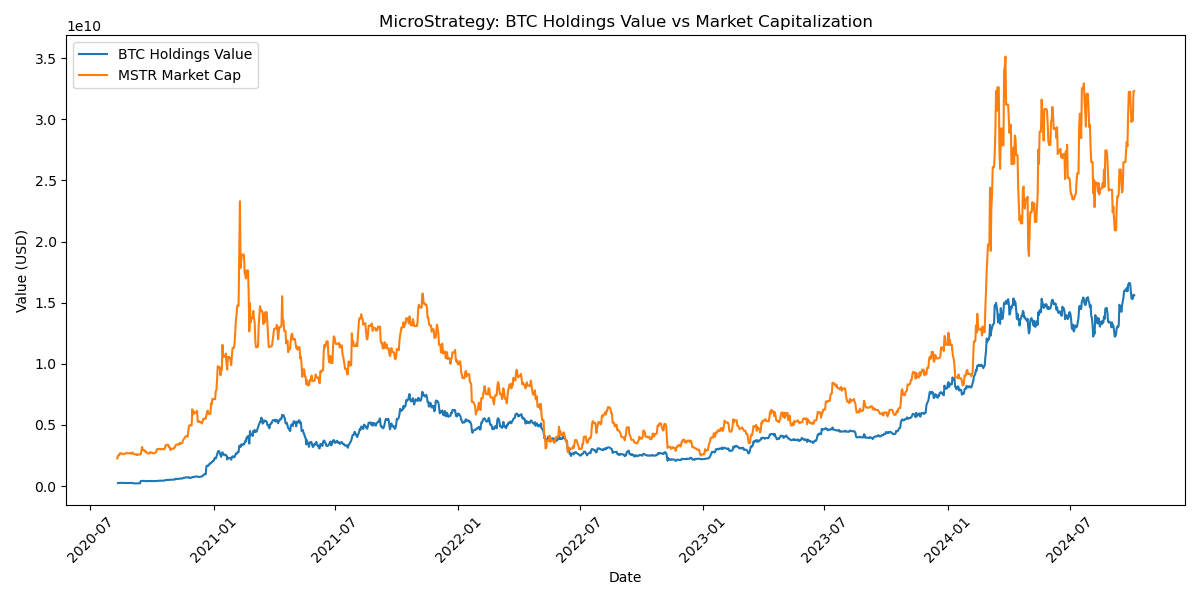
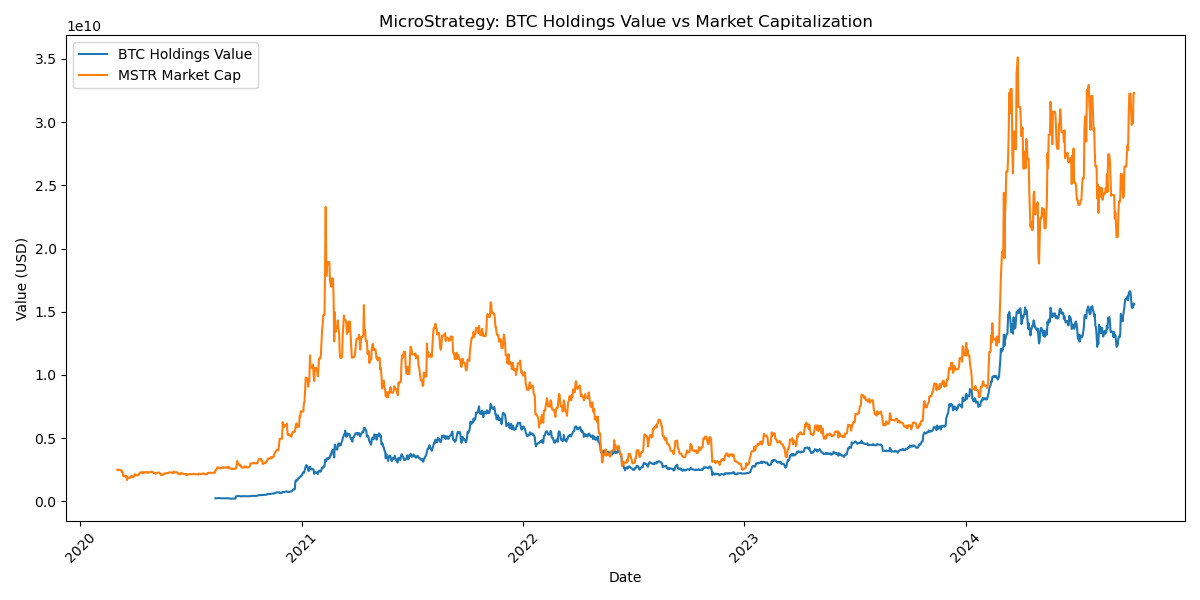
Update project structure, add data processing and visualization scripts

diff --git a/src/yf.py b/src/yf.py
@@ -69,7 +69,7 @@ def save_to_csv(df, filename):
 def main():
     # Set date range (e.g., last 5 years)
     end_date = datetime.now().strftime('%Y-%m-%d')
-    start_date = '2020-08-10'
+    start_date = '2020-03-01'
     # Set file paths
     script_dir = os.path.dirname(os.path.abspath(__file__))
     btc_holdings_path = os.path.join(script_dir, '..', 'data', 'btcholdings.csv')
